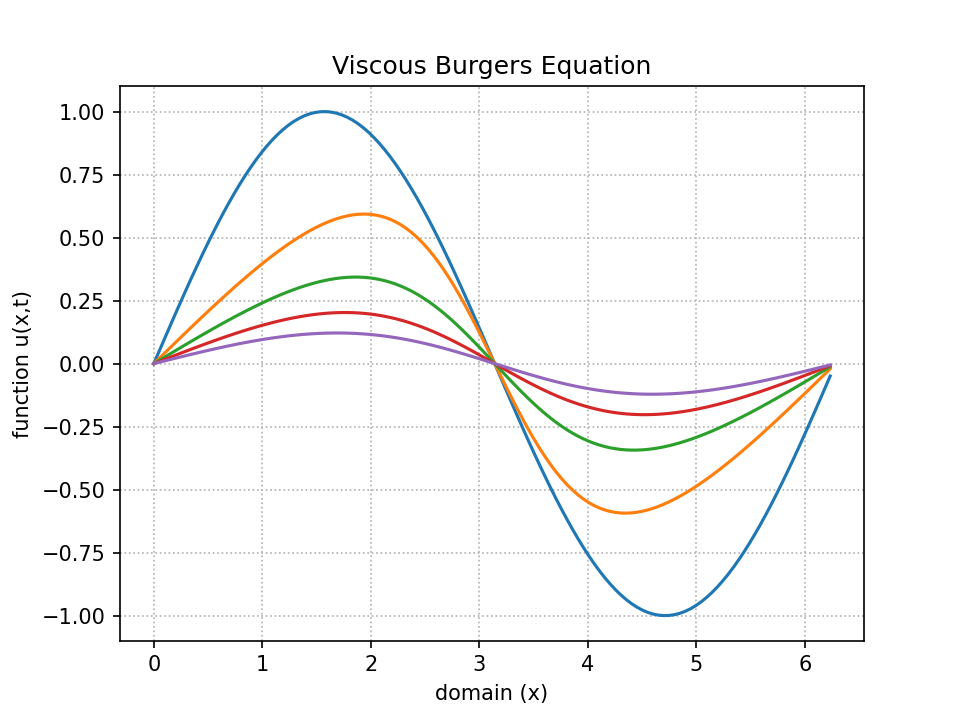
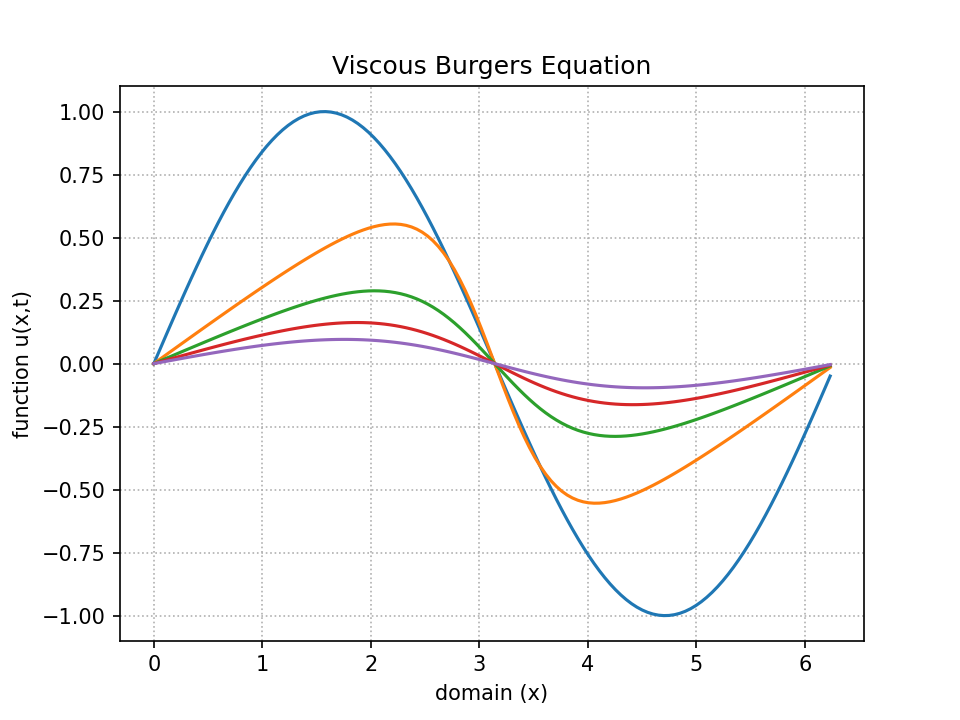
Wrote functions and comments

Changed region(s): [[0.1562, 0.275, 0.875, 0.7333]]

diff --git a/spectral_methods/viscous_Burgers_equation/burgers_eq.py b/spectral_methods/viscous_Burgers_equation/burgers_eq.py
@@ -4,11 +4,14 @@ import matplotlib.pyplot as plt
 from numpy.fft import fft, ifft
 from numpy import multiply
 
-# takes the fft of function and returns the derivative of the function in
-# physical space
-def ifftik(fftfunc, k):
-    ikfftfunc = 1j * k * fftfunc  # take derivative in frequency space
-    return ifft(ikfftfunc)  # convert the derivative to physical space
+#===============================Introduction===================================#
+
+# This code solves the viscous burgers equation using Fourier-Galerkin spectral
+# methods for periodic boundary conditions
+
+# u_t + u*u_x = nu * u_xx 
+
+#=================================Functions====================================#
 
 # write the real parts of the supplied array (x and u) to a data file
 # with name solution"n".dat
@@ -19,6 +22,28 @@ def write_real(x, u, n):
         np.savetxt(out_file, data, delimiter=",")
         out_file.close()
 
+# takes the fft of function and returns the derivative of the function in
+# physical space
+def ifftik(fftfunc, k):
+    ikfftfunc = 1j * k * fftfunc  # take derivative in frequency space
+    return ifft(ikfftfunc)  # convert the derivative to physical space
+
+# creates the wavenumber array of the form required for np.fft.ifft 
+# |0 | 1 | 2 | 3 | -3 | -2 | -1|
+def wavenumbers(n):
+    assert n % 2 == 0
+    k1 = np.arange(0, nx/2)
+    k2 = np.arange(-nx/2 + 1, 0)
+    k = np.concatenate((k1, k2))
+    return k
+
+# grid points (excludes last point)
+# enforces an even number of grid points
+def domain(n):
+    assert n % 2 == 0
+    return np.linspace(0.0, 2.0 * np.pi - dx, nx - 1)
+
+#=============================Main Program=====================================#
 
 # define the parameters
 nx = 128  # grid points / sampling points
@@ -26,92 +51,54 @@ a = 0  # domain a to b
 b = 2.0*np.pi  # domain a to b
 dx = (b-a)/(nx-1)  # step size
 dt = 0.001  # time step
-nu = 0.5  # diffusivity
-Nt = 4001  # of time steps
-save = 100  # save data every 'this' number of time steps
-# grid points (excludes last point)
-x = np.linspace(0.0, 2.0 * np.pi - dx, nx - 1)
+nu = 0.25  # diffusivity
+Nt = 10001  # of time steps
+save = 1000  # save data every 'this' number of time steps
 
-# construct the array of wavenumbers
-k1 = np.arange(0, nx/2)
-k2 = np.arange(-nx/2 + 1, 0)
-k = np.concatenate((k1, k2))
+x = domain(nx)
+k = wavenumbers(nx)
 
 # define the initial condition and write it to file
 init = np.sin(x)
 u0 = init
 write_real(x, u0, 0)
 
-# print("k      = \n", k)
-# print("fft(u0) = \n", fft(u0)/len(u0))
-# Determine the necessary quantities at t = n-1
-# -> fft(u*ux) at t = 0
-
-# take FFT of u0
-fftu0 = fft(u0)
-# get u0_x in physical space
-u0x = ifftik(fftu0, k)
-# get fft of u0*u0_x
-fftu0u0x = fft(u0 * u0x)
-
-# determine the necessary quantities at t = n
-# -> fft(u*ux) @ t=1
-# -> fft(u) @ t=1
-# get u @ t=n from u @ t=n-1 using Euler's method
-# get u1 in frequency space
-fftu1 = fftu0 - dt * (fftu0u0x + nu*k**2*fftu0)
-# convert u1 to physical space
-u1 = ifft(fftu1)
-# get u1_x in physical space
-u1x = ifftik(fftu1, k)
-# get fft(u1 * u1_x)
-fftu1u1x = fft(u1 * u1x)
-
-# Evaluate u2 using AM2 for the linear term and AB2 for the non-linear term
-fftu2 = multiply(((1.0 - nu * k**2 * dt * 0.5) * fft(u1) - (0.5 * dt * (3.0*fftu1u1x - fftu0u0x))),  1.0/ (1.0 + 0.5 * nu * k**2 * dt)) 
-# convert u2 to physical space
-u2 = ifft(fftu2)
-
-u0 = u1
-u1 = u2
-
-write_real(x, u1, 0)
-
 for i in range(1, Nt):
+    # determine the necessary quantities at t = n - 1
     # take FFT of u
-    fftu0 = fft(u0)
     # get u_x in physical space
-    u0x = ifftik(fftu0, k)
     # get fft of u*u_x
+    fftu0 = fft(u0)
+    u0x = ifftik(fftu0, k)
     fftu0u0x = fft(u0 * u0x)
 
     # determine the necessary quantities at t = n
     # -> fft(u*ux) @ t=1
     # -> fft(u) @ t=1
-    # get u @ t=n from u @ t=n-1 using Euler's method
-    # get u1 in frequency space
-    fftu1 = fftu0 - dt * (fftu0u0x + nu*k**2*fftu0)
+    # get u1 (in freq space) @ t=n from u @ t=n-1 using Euler's method
     # convert u1 to physical space
-    u1 = ifft(fftu1)
     # get u1_x in physical space
-    u1x = ifftik(fftu1, k)
     # get fft(u1 * u1_x)
+    fftu1 = fftu0 - dt * (fftu0u0x + nu*k**2*fftu0)
+    u1 = ifft(fftu1)
+    u1x = ifftik(fftu1, k)
     fftu1u1x = fft(u1 * u1x)
 
     # Evaluate u2 using AM2 for the linear term and AB2 for the non-linear term
-    fftu2 = ((1.0 - nu * k**2 * dt * 0.5) * fft(u1) - (0.5 * dt * (3.0*fftu1u1x - fftu0u0x))) / (1 + 0.5 * nu * k**2 * dt)
     # convert u2 to physical space
+    fftu2 = ((1.0 - nu * k**2 * dt * 0.5) * fft(u1) - 
+            (0.5 * dt * (3.0*fftu1u1x - fftu0u0x))) / (1 + 0.5 * nu * k**2 * dt)
     u2 = ifft(fftu2)
 
     u0 = u1
     u1 = u2
-    if i%save == 0:
+    if i % save == 0:
         write_real(x, u2, i)
+        
+#==========================Post Processing=====================================#
 
-
-
-#load data from files to be plotted
-plotfiles = [1000, 2000, 3000, 4000]
+# load data from files to be plotted
+plotfiles = [2000, 4000, 6000, 8000]
 x0, u0 = np.loadtxt("data\solution0.dat", delimiter=",", unpack=True)
 x1, u1 = np.loadtxt(
     "data\solution"+str(plotfiles[0])+".dat", delimiter=",", unpack=True)
